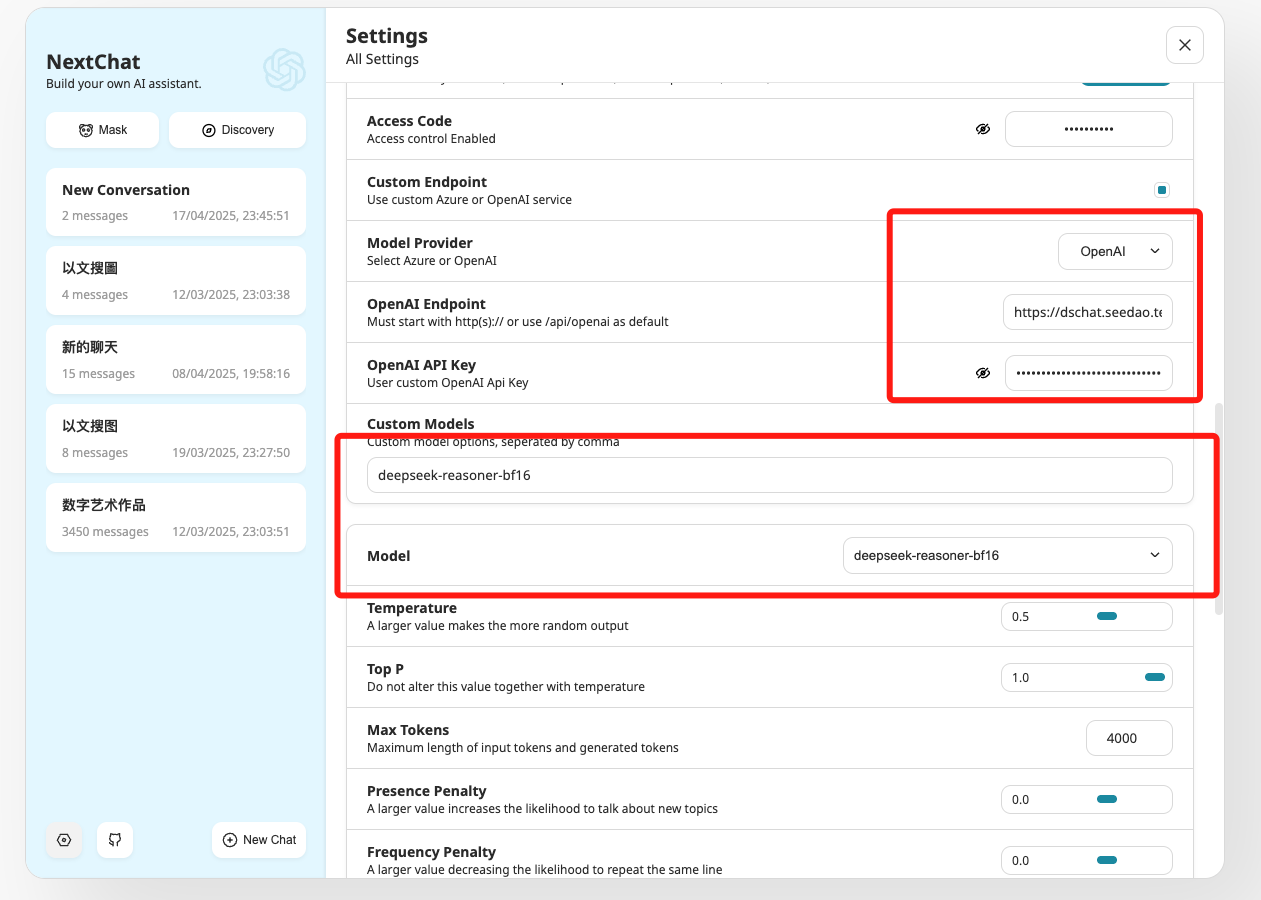
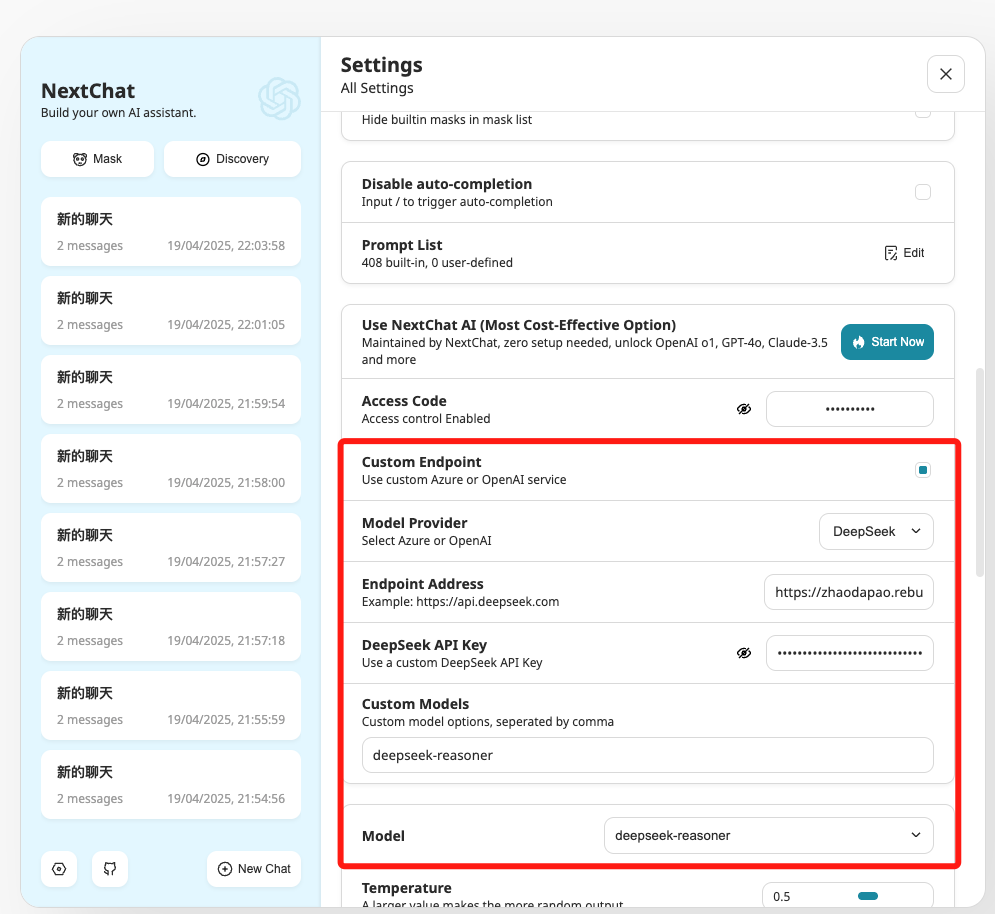
fix: update ui

diff --git a/seedao-docs/07-seechat/Models.md b/seedao-docs/07-seechat/Models.md
@@ -14,7 +14,7 @@ will counted based on the total number of input and output tokens by the model.
         <tr>
             <th>MODEL</th>
             <th>deepseek-chat</th>
-            <th>deepseek-reasoner-bf16</th>
+            <th>deepseek-reasoner</th>
         </tr>
     </thead>
     <tbody>
@@ -23,7 +23,7 @@ will counted based on the total number of input and output tokens by the model.
                 CONTEXT LENGTH
             </td>
             <td>64K</td>
-            <td>32K</td>
+            <td>64K</td>
         </tr>
         <tr>
             <td>
@@ -43,6 +43,6 @@ will counted based on the total number of input and output tokens by the model.
 </table>
 
 ### Tips
--  The deepseek-chat model points to ```DeepSeek-V3```. The ```deepseek-reasoner-bf16``` model points to DeepSeek-R1.
+-  The deepseek-chat model points to ```DeepSeek-V3```. The ```deepseek-reasoner``` model points to DeepSeek-R1.
 
 -   ***MAX OUTPUT TOKENS:*** Integer between 1 and 8192. The maximum number of tokens that can be generated in the chat completion. The total length of input tokens and generated tokens is limited by the model's context length. If max_tokens is not specified, the default value 4096 is used.

diff --git a/seedao-docs/07-seechat/APIendpoint.md b/seedao-docs/07-seechat/APIendpoint.md
@@ -6,13 +6,13 @@ This guide provides essential information on how to interact with the API endpoi
 
 ### Authentication
 
-To ensure secure access to the API, authentication is required 🛡. You can authenticate your API requests using the Bearer Token mechanism. Obtain your API key from Profile > SeeChat in the SeeDAO OS.
+To ensure secure access to the API, authentication is required 🛡. You can authenticate your API requests using the Bearer Token or X-API-Key. Obtain your API key from Profile > SeeChat in the SeeDAO OS.
 
 ### 💬 Chat Completions
 Supports streaming responses and multi-turn conversations
 
 ```shell
-POST /v1/chat/completions
+POST /api/v1/chat/completions
 ```
 
 ```shell

diff --git a/seedao-docs/07-seechat/Integration/ChatGPT-Next-Web.md b/seedao-docs/07-seechat/Integration/ChatGPT-Next-Web.md
@@ -7,5 +7,5 @@ One-Click to get a well-designed cross-platform ChatGPT web UI，support multipl
 
 
 ### Integrate with SeeChat API
-fill OpenAI Endpoint with ```https://dschat.seedao.tech/v1/api/chat/completions#```
+fill Deepseek Endpoint with ```https://zhaodapao.rebuildtraffic.com/v1/api/chat/completions#```
 <img src="/img/integration/ChatGPT-Next-Web.png" />
